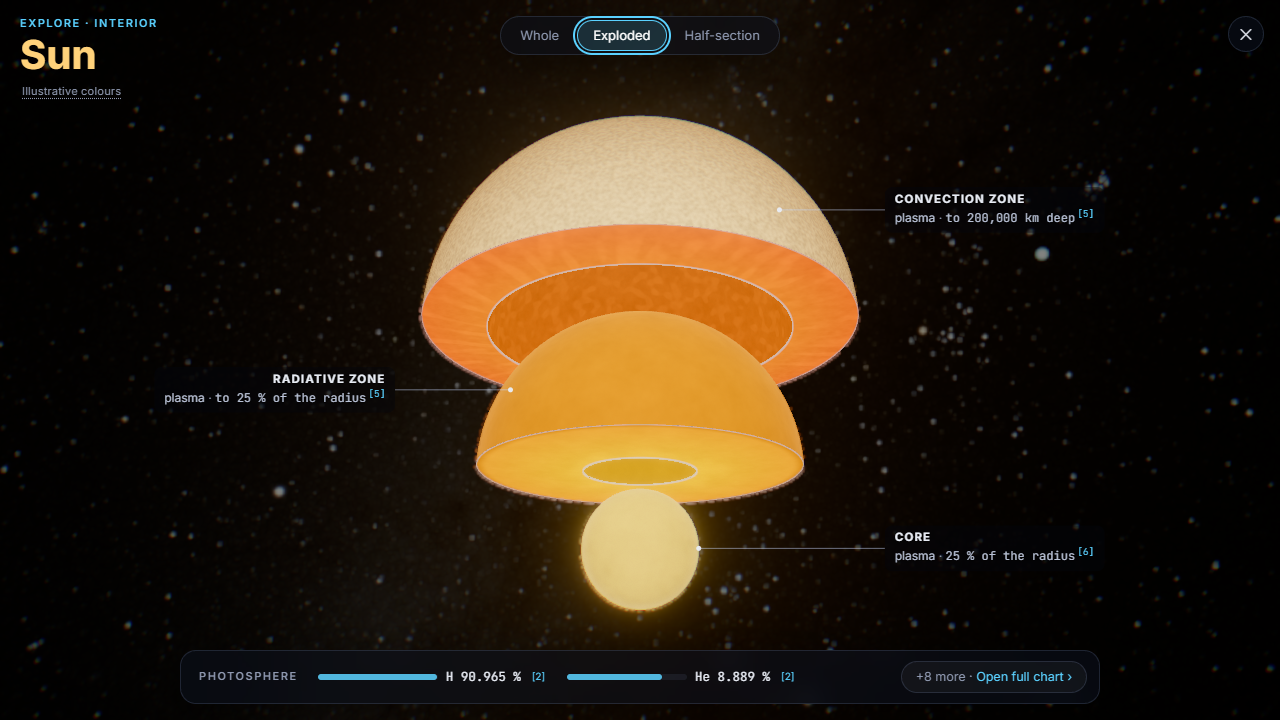
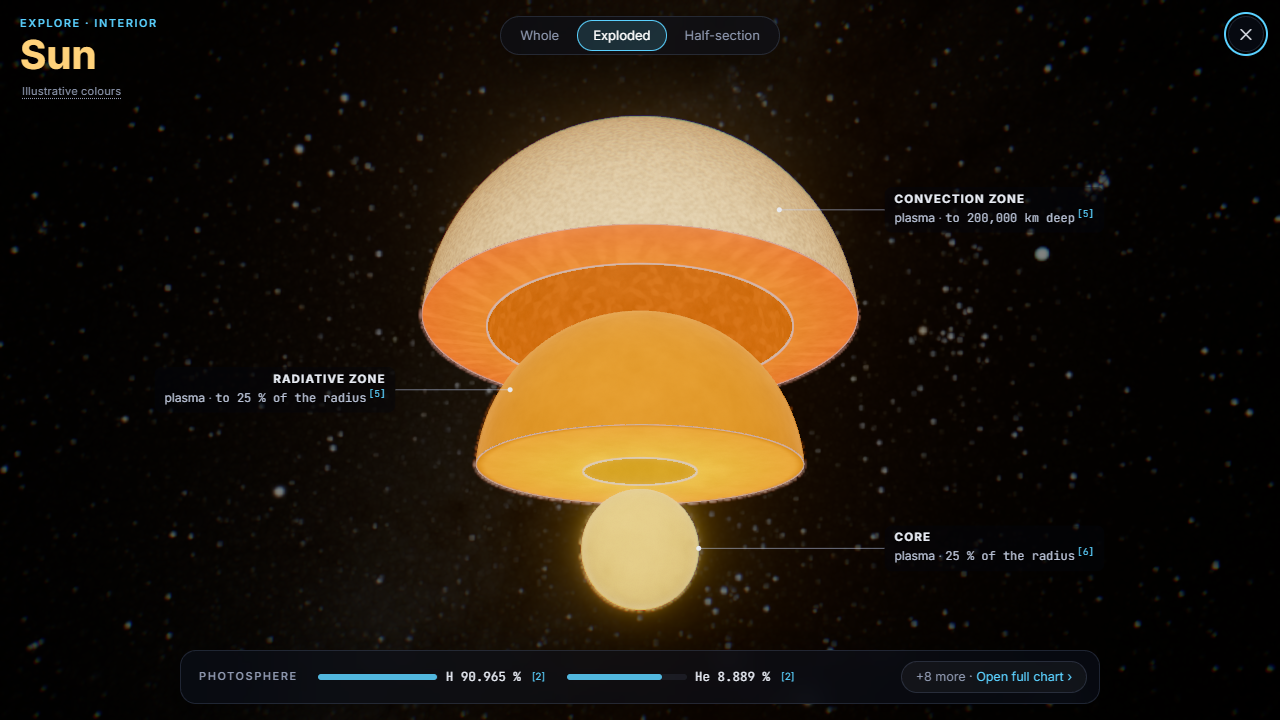
docs: M2b.3 whole-branch review record, session notes for the user, changelog, README, re-shot and new goldens

diff --git a/Space_visualizer/Plans/2026-10-30-m2b3-explore-interior.md b/Space_visualizer/Plans/2026-10-30-m2b3-explore-interior.md
@@ -208,7 +208,7 @@ function compositionPreview(model: ChartModel | null, details: BodyDetails): { p
 
 ## Execution record
 
-Built 2026-10-30 to 2026-11-06, subagent-driven on branch `m2b3-explore` (base `e6c8108`, on `cloud-setup` b1b148c). Implementers: sonnet, with opus for Task 6 (rendering) and Task 8 (visual tuning). Per-task reviews by sonnet; every task finished review-clean. The whole-branch review is still to do. Nothing is pushed and no PR is open.
+Built 2026-10-30 to 2026-11-06, subagent-driven on branch `m2b3-explore` (base `e6c8108`, on `cloud-setup` b1b148c). Implementers: sonnet, with opus for Task 6 (rendering) and Task 8 (visual tuning). Per-task reviews by sonnet; every task finished review-clean. The whole-branch review is done, with one fix wave (see the end of this record). Nothing is pushed and no PR is open.
 
 - 2026-10-30: plan written after the user approved the spec ("yes go ahead … immediately continue with implementation").
 
@@ -238,10 +238,11 @@ Each with its cost if wrong.
 - **Task 6:** an Explore URL frames the body at 3.4 radii and ignores `dist` (Explore framing wins). Cost: goldens cannot set the distance in Explore.
 - **Task 6:** accept the Half-section face yawed 45 degrees from facing the camera (`SECTION_YAW_RAD`), tuned on screenshots to keep a crescent of the real surface visible; noted in the spec (§11). Cost: the cut face is seen at an angle.
 - **Task 7:** accept the UI wording table (`interiorText.ts`) for "about" and "(global average)" now. Log as debt: move the qualifier into the data (a field filled and checked by the pipeline). Faithful today. Cost: the table drifts if layer ids change.
+- **Task 9:** the documentation task had no review of its own; its notes were reviewed inside the whole-branch review (findings 12 and 14 corrected them). Cost: doc slips surface one review later.
 - **Task 8:** the interior saturation push keeps a bounded negative, `max(x, -0.25 * luma)`, instead of a zero clamp. A zero clamp returns the pastel look: AgX needs blue below zero for amber. **Open for the user:** check on a real GPU for dark fringes. Cost: faint dark halos around hot layers on some GPUs.
 
 ### Tuned values (Task 8, visual loop at 1280 x 720 and 390 x 844)
-- **Exploded spacing** (`core/interior/geometry.ts`): `EXPLODE_REVEAL` 0.8, `EXPLODE_MARGIN` 0.08, `EXPLODE_MAX` 1.8 (was a flat 0.3 step, capped at 0.8). Earth's offsets are 1.67, 0.79, 0.27 and 0 R (were 0.8, 0.53, 0.27, 0). Cost if wrong: a taller model, smaller on screen.
+- **Exploded spacing** (`core/interior/geometry.ts`): `EXPLODE_REVEAL` 0.8, `EXPLODE_MARGIN` 0.08, `EXPLODE_MAX` 1.8 (was a flat 0.3 step, capped at 0.8). Earth's offsets are 1.66, 0.79, 0.27 and 0 R (were 0.8, 0.53, 0.27, 0). Cost if wrong: a taller model, smaller on screen.
 - **Camera fit** (`camera/explore.ts`): `EXPLORE_FIT_HALF_HEIGHT` 1.05 (1.2 left the core touching the bottom strip). The camera steps back by `halfHeight / 1.05 * 3.4 / entry distance`, never less than 1, following the eased progress. `ExploreFrame` gained `halfHeightRadii`. A phone, framed from about 5.6 R, does not step back.
 - **Saturation push** (`INTERIOR_LOOK.saturation` 0.5): emission = luma + (c - luma) * (1 + 0.5 * min(glow, 1)). Hot layers get up to x1.5; cool rock (glow 0.2 to 0.55) x1.1 to x1.28. Why: AgX desaturates, and even pure `#f06a0e` at the shader's emission comes out terracotta. **Bound** `negativeFloor` 0.25. At that bound the outer core is `#d07604`, against `#d17500` unbounded and `#cf7748` clamped at zero.
 - **Ramps** (`interiorPalette.ts`): rock `#8f4a26 / #b8622e / #d8823e`; liquid metal `#e8640a / #f58212 / #ffab2e`; solid core `#fff0d8 / #fffaf2` with glow 3.4 to 4.2 (was 2.2 to 2.8); plasma `#ff5a10 / #ff9a20 (0.45) / #ffd070 (0.8) / #fff4d8`; hydrogen deep stops `#9356e6 (0.8) / #c9a6ff (1)`. Crust and ices unchanged.
@@ -251,7 +252,7 @@ Each with its cost if wrong.
 - **Earlier values (Task 6, not changed since):** open time 1.2 s, focus time 0.6 s, dimming 25 %, Sun bloom 0.35, Sun exposure floor 0.8, Sun plasma gain 2.4, Explore camera tilt -22 degrees, distance limits 1.2 to 9 R.
 
 ### Goldens
-Six views, `quality=high&fx=1`, reduced motion, in `Assets/m2b3/`. After the bounded-negative fix the six were re-shot; the mean pixel difference from the first reviewed set was 0.22, 0.42, 0.04, 1.61, 0.03 and 0.62, in the order below.
+Eight views (six from Task 8, two from the review fix wave), `quality=high&fx=1`, reduced motion, in `Assets/m2b3/`. After the bounded-negative fix the six were re-shot; the mean pixel difference from the first reviewed set was 0.22, 0.42, 0.04, 1.61, 0.03 and 0.62, in the order below.
 
 **7 Earth Exploded.** Cap with real imagery, rust mantle, amber outer core, white-hot inner core, four labels (mockup B).
 ![[7-earth-exploded.png]]
@@ -271,7 +272,15 @@ Six views, `quality=high&fx=1`, reduced motion, in `Assets/m2b3/`. After the bou
 **7f Phone Earth Exploded (390 x 844).** The whole stack in frame, four numbered dots, the Layers button and the strip clear.
 ![[7f-phone-earth-exploded.png]]
 
-Mockups from the design talk: `mockup-1-cutaway-styles.png`, `mockup-2-composition-styles.png`, `mockup-3-explore-layouts.png`. Saturn Exploded and Uranus Half-section were looked at in Task 6 and 7 scratch rounds only; Saturn and Uranus were not re-shot after the Task 8 palette change.
+**7g Saturn Half-section (review fix wave).** Pale crescent with no black band (filled while open), blue envelope, the metallic hydrogen fading into the diffuse core with no line, the depth ruler (≈ 23,300 km, Estimate; 58,232 km centre).
+![[7g-saturn-section.png]]
+
+**7h Uranus Exploded (review fix wave).** Pale north cap, blue envelope ring, teal mantle dome, pale core, stacked along the view's vertical; "Layer sizes are not to scale".
+![[7h-uranus-exploded.png]]
+
+After the fix wave all eight were re-shot: 7b, 7c and 7e now show the depth ruler, and their right-side labels sit below the centre.
+
+Mockups from the design talk: `mockup-1-cutaway-styles.png`, `mockup-2-composition-styles.png`, `mockup-3-explore-layouts.png`. All ten bodies in both views were looked at in the review fix wave's screenshot loop (rounds r0 to r3).
 
 ### Tests
 - Unit: 988 tests in 110 files; `npm run typecheck` clean.
@@ -326,4 +335,27 @@ Grouped by theme in [[2026-10-05-m2a1-carry-over]] ("From M2b.3"). By task, as t
 - **5-hour usage limit:** it interrupted Task 8 at about 01:00 on 2026-11-06. At 06:20 the wake-up the user had asked for fired and Task 8 resumed with its uncommitted progress intact; it committed a step commit first (`9da91ff`).
 
 ### Whole-branch review
-Not done yet. Next: the whole-branch review on the most capable model, one fix wave and one scoped re-review. Push and open the stacked PR (base `cloud-setup`) only when the user asks.
+Done 2026-11-14 on base `30d38da`. Controller rulings: build the depth ruler and the soft bands (no waiver); fix everything in one wave. One fix wave followed (implementer: opus).
+
+**Findings and what changed**
+1. *Half-section depth ruler missing* (spec §2, §6). Built: `ui/explore/depthRuler.ts` (`depthRulerTicks`, `placeRuler`), drawn by `InteriorLabels`, its rect reserved for the labels. Values are cited bounds as depths (radius bounds as the cited radius minus the bound; percent bounds approximate, "≈"); the centre is the new cited `interior.radiusKm`. Right-side Half-section labels anchor below the centre. Hidden at phone width.
+2. *Dilute/diffuse cores drawn with hard edges* (spec §4.2). Built: a cited, quote-checked `gradual` on the layer (Jupiter: NASA facts sentence; Saturn: the paper's sentence), `GRADUAL_BAND` 0.12 R soft band on both sides, no line or shading step, the shell edge blended; the card says the soft edge is illustrative.
+3. *No Explore state for missing, failed or loading details.* "Loading the interior…", "No interior data yet", "Could not load the interior." with Retry; no switch unless a view can open.
+4. *Drawer showed paper sizes without "Estimate"* and a lowercase placeholder. Drawer rows carry the card's tags; an illustrative layer shows no extent.
+5. *Most bodies never looked at in Explore.* Screenshot loop over all 10 bodies in both views (rounds r0 to r3). Fixed: Saturn's black equatorial map band and the Uranus and Neptune map streaks while open (`mapGaps.ts`, Explore only), the shading step at soft bands, a seam where cited bounds leave a small gap (Mars; drawn layers now tile the radius). New goldens: Saturn Half-section, Uranus Exploded.
+6. *Phone rotation clipped the body.* `reframeDistanceKm`: the new shape's framing is a floor when it needs more room.
+7. *Strip `[n]` links went nowhere.* Tooltips name the source; the chart panel lists its sources; a strip `[n]` opens the chart on its source.
+8. *Esc with a card open left Explore.* Esc: chart, then card, then leave.
+9. *Other bodies were pickable.* `bodyPickable`: none while Explore is on.
+10. *Pan worked in Explore.* `exploreInput` drops it.
+11. *AppChrome unmounted at once.* 200 ms fade out and in, inert while fading; cut under reduced motion.
+12. *`interiorRadiusKm` comment.* Now matches the code (mean radius for the Sun and the Moon, else equatorial) and says why that is fine.
+13. *`MAX_LAYERS` truncated silently.* `MAX_INTERIOR_LAYERS` 8 is a `checkDetails` rule.
+14. *Docs.* Earth offsets 1.66; the leave test is a threshold, not pixel-equal; Mankovich and Fuller backs the extent, composition and gradual boundary, not the state; the Task 9 ruling (above); the spec's "Amended while building"; the session note's "Open for the user" (the Saturn arXiv quote check).
+15. This record.
+
+**Fix-wave rulings** (cost if wrong): surface "0 km" uncited (a definition); ruler depths derived from radius and percent bounds (a derived number on screen, cited to the bound and the radius); `interior.radiusKm` added to the data (one more field); ruler hidden at ≤ 720 px (no ruler on phones); right-side Half-section labels below the centre (they sit lower); `GRADUAL_BAND` 0.12 R illustrative; map gap fills in Explore only (normal views still show the no-data areas); reframe only when the new shape needs more room; chrome fade 200 ms (inert chrome in the DOM for 200 ms).
+
+**Tests:** `npm test` 1,031 tests in 112 files (988 before the wave); typecheck clean. Full Playwright (122 tests): run 1 had 114 passed and 8 failed, run 2 had 119 passed and 3 failed; every failure passed on a rerun of the failed tests (`--last-failed`: 8 of 8, then 3 of 3). The failures were load, not code: tests whose first page was still on "Loading Solar System data…" after the 5 s canvas wait while three workers rendered High goldens (another process on the machine was using a lot of CPU), and the leave-while-opening test, whose sampler saw the body close within one frame under that load (it passes alone: restore diff 0.006 to 0.007 against noise 0.001 to 0.003). Goldens re-shot from run 2 and copied to `Assets/m2b3/` (six re-shot, two new).
+
+Next: one scoped re-review of the fix wave. Push and open the stacked PR (base `cloud-setup`) only when the user asks.

diff --git a/Space_visualizer/Sessions/2026-10-30-session-m2b3-explore.md b/Space_visualizer/Sessions/2026-10-30-session-m2b3-explore.md
@@ -43,7 +43,7 @@ Nine tasks, subagent-driven (the plan's Execution record has the commits, ruling
 
 ## State
 - Branch `m2b3-explore`, stacked on `cloud-setup` (PR #7). M2b.3 is complete.
-- Built and reviewed per task; every task review-clean. **Whole-branch review still to do.** Documentation written in Task 9 (this note, the spec amendments, the plan's Execution record, the architecture notes, ADR 0009, the data note, the carry-over, the changelog, Home, Start here, README).
+- Built and reviewed per task; every task review-clean. **Whole-branch review done (2026-11-14), one fix wave applied** (depth ruler, soft bands for gradual cores, loading and error states, drawer tags, a turned phone, citations in Explore, Esc order, no clicks on other bodies, no pan, interface fade, map gaps in Explore, docs). See the plan's "Whole-branch review". A scoped re-review is next. Documentation written in Task 9 (this note, the spec amendments, the plan's Execution record, the architecture notes, ADR 0009, the data note, the carry-over, the changelog, Home, Start here, README).
 - **Not pushed. No PR is open.** PRs #1 to #7 remain unmerged.
 - Next section: M2b.4, feature pins and fields. Explore is the home for it.
 
@@ -53,3 +53,6 @@ Nine tasks, subagent-driven (the plan's Execution record has the commits, ruling
 3. **Uranus and Neptune interiors are schematic.** No citable layer sizes were found, so the three layers share the radius in thirds and the screen says "Layer sizes are not to scale".
 4. **The better Venus papers could not be used** (Dumoulin 2017 for the core, James 2013 for the crust): their pages cannot be fetched for the quote check. Venus uses Shah et al. 2022 ("core size", recorded as the radius) and Maia and Wieczorek 2022.
 5. **The branch is not pushed and no PR is open.** PRs #1 to #7 remain unmerged. Say when to push and open the stacked PR (base `cloud-setup`).
+6. **The Saturn quote is checked against the arXiv copy** (2104.13385 v2), not the published Nature Astronomy page, which sends the pipeline's user agent to a cookie gate. The sentence was matched by hand once to the published text (and Semantic Scholar lists the arXiv PDF as the open copy of the DOI). This sits with spec call 5 (only quotes verifiable on an open page): say if an arXiv copy matched once by hand is acceptable.
+7. **Map no-data areas outside Explore.** In Explore, Saturn's black equatorial map band is filled (the rings are hidden there) and the Uranus and Neptune maps keep to the latitudes Hubble saw. Normal views are unchanged and still show those areas where they are visible (Uranus's south, Neptune's far north, Saturn's band between ring gaps). Say if the fill should apply everywhere.
+8. **Mercury from the default direction shows its night side** in Explore (a dark cap and crescent; the cut still glows). This is the real lighting; the Explore camera keeps the direction it was entered from.

diff --git a/Space_visualizer/Changelog.md b/Space_visualizer/Changelog.md
@@ -144,4 +144,12 @@ Back to [[Home]]
 - Scene: a shader-space cut, caps and cut faces per layer, analytic picking, other bodies dimmed to 25 %, rings hidden, the Sun's flare and rays faded in any Explore session. Interior colours are illustrative (labelled) and use a small bounded negative in the saturation push so amber survives AgX.
 - Tests: 988 unit tests, typecheck clean, 118 end-to-end tests passed before the last fix rounds, 25 targeted after. Six golden views in `Assets/m2b3/`.
 - Spec [[2026-10-30-m2b3-explore-interior-design]] (approved, with "Amended while building" notes), plan [[2026-10-30-m2b3-explore-interior]] (rulings and research log in its Execution record), session [[2026-10-30-session-m2b3-explore]]. Carry-over: [[2026-10-05-m2a1-carry-over]] ("From M2b.3").
-- **Status:** on branch `m2b3-explore`, stacked on `cloud-setup` (PR #7). The whole-branch review is still to do. Not pushed; no PR is open.
+- **Status:** on branch `m2b3-explore`, stacked on `cloud-setup` (PR #7). Not pushed; no PR is open.
+
+## 2026-11-14 — M2b.3 whole-branch review fix wave
+- **Depth ruler** beside the Half-section cut: surface (0 km) to the centre, a tick at each layer boundary with its cited depth and `[n]`; paper bounds say Estimate; hidden on phones.
+- **Soft bands for dilute cores:** Jupiter's dilute core and Saturn's diffuse core carry a cited, quote-checked `gradual` boundary and are drawn with a soft band and no line; the layer card says the soft edge is illustrative. The data records the cited radius the bounds were converted with (`interior.radiusKm`) and fails above 8 layers.
+- Explore shows loading, "No interior data yet" and "Could not load the interior." with Retry. The facts drawer's interior rows carry the Estimate and Illustrative size tags.
+- Esc steps back chart, card, then Explore. Other bodies take no clicks in Explore; pan is ignored; a turned phone reframes the body. The interface fades out and back in. Every `[n]` in Explore names its source and points at a Sources list in the chart panel.
+- While open, Saturn's black map band and the Uranus and Neptune map streaks are filled (Explore only); drawn layers tile the radius, so Mars's core shows no seam.
+- New goldens: Saturn Half-section, Uranus Exploded. Details in the plan's "Whole-branch review".

diff --git a/README.md b/README.md
@@ -44,7 +44,7 @@ Then open the address Vite prints (normally <http://localhost:5173/>). No server
 - The **bottom bar** has the date, Reverse, Play, Speed, Now, Go to date and a timeline from 1800 to 2050.
 - **Tour** (button, or key **T**): flies from the Sun outward past each planet and ends with an overview. Any key, click, wheel or touch stops it; time is never changed.
 - Keys: **1** / **2** Orbit and Follow, **Esc** Orbit, **T** Tour, **Q** quality, **E** camera effects, **F** drawer, **X** Explore.
-- **Explore** (the Explore button in the header, or key **X** with a body selected): the body fills the screen and the interface steps aside. Switch between **Whole**, **Exploded** (the layers lift apart) and **Half-section** (a flat cut) with the switch at the top or keys **1**, **2**, **3**. Click a layer or its label for a card with its facts and sources. The bottom strip shows the atmosphere's top gases; "Open full chart" shows every gas on one log scale. **Esc** closes the chart, then leaves Explore. Layer sizes that come from a research paper are marked **Estimate**; layers with no citable size are marked "Illustrative size". Interior colours are illustrative.
+- **Explore** (the Explore button in the header, or key **X** with a body selected): the body fills the screen and the interface steps aside. Switch between **Whole**, **Exploded** (the layers lift apart) and **Half-section** (a flat cut) with the switch at the top or keys **1**, **2**, **3**. Click a layer or its label for a card with its facts and sources. The bottom strip shows the atmosphere's top gases; "Open full chart" shows every gas on one log scale. Half-section has a depth ruler from the surface to the centre, with each cited boundary. **Esc** closes the chart, then the layer card, then leaves Explore. Layer sizes that come from a research paper are marked **Estimate**; layers with no citable size are marked "Illustrative size". Interior colours are illustrative.
 
 ## Quality and camera effects
 
